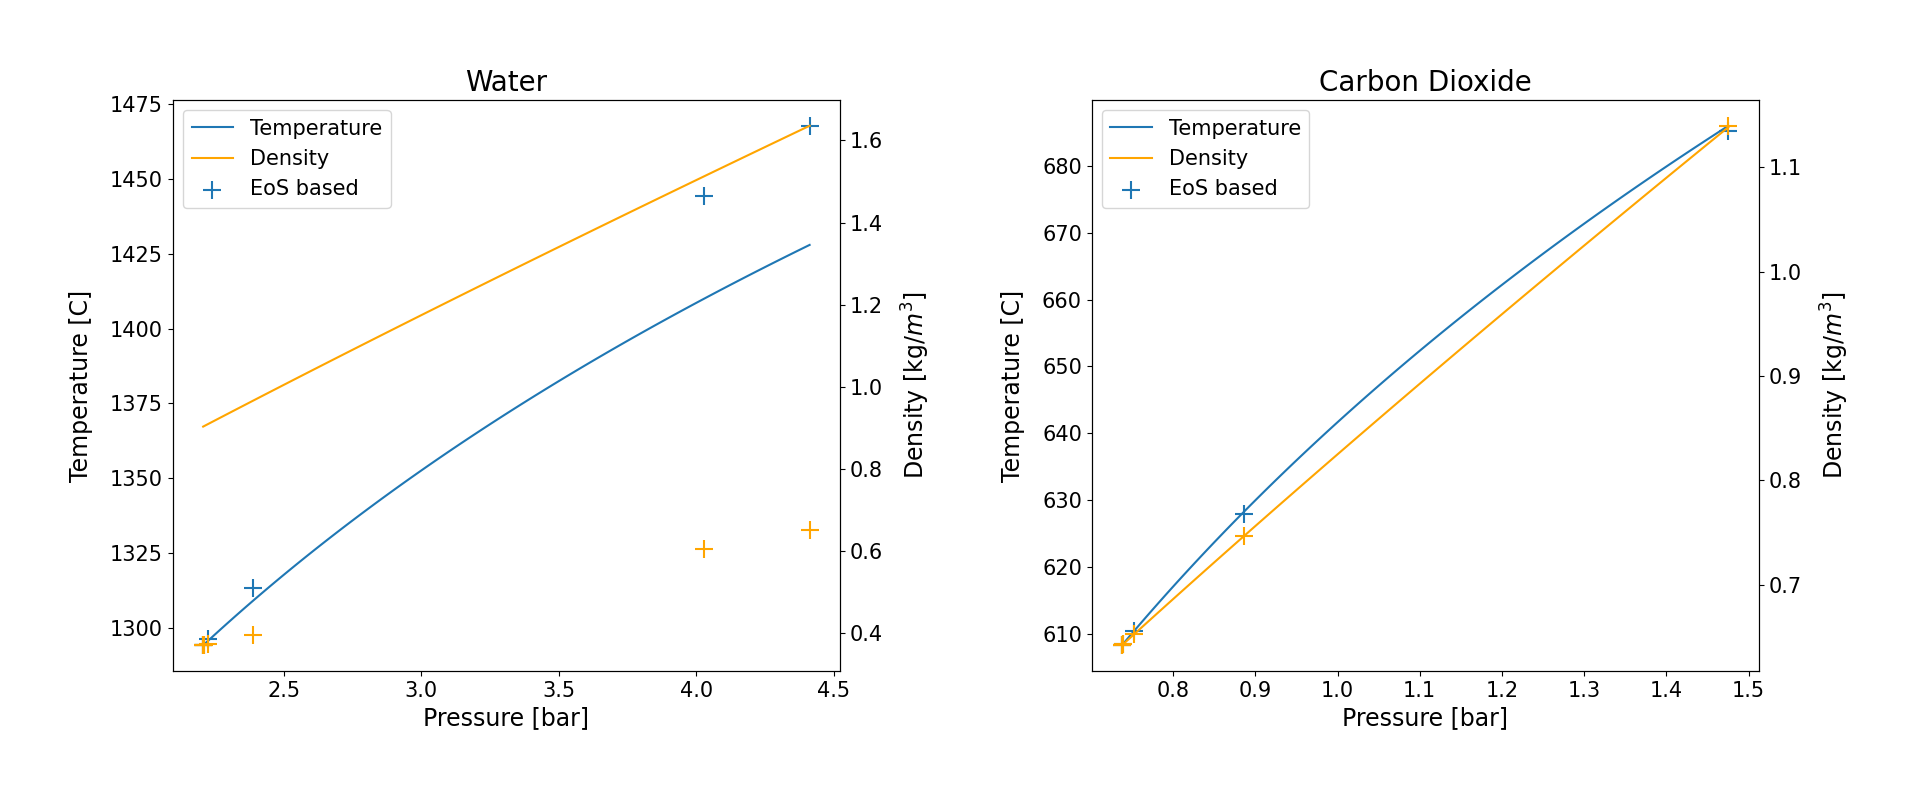
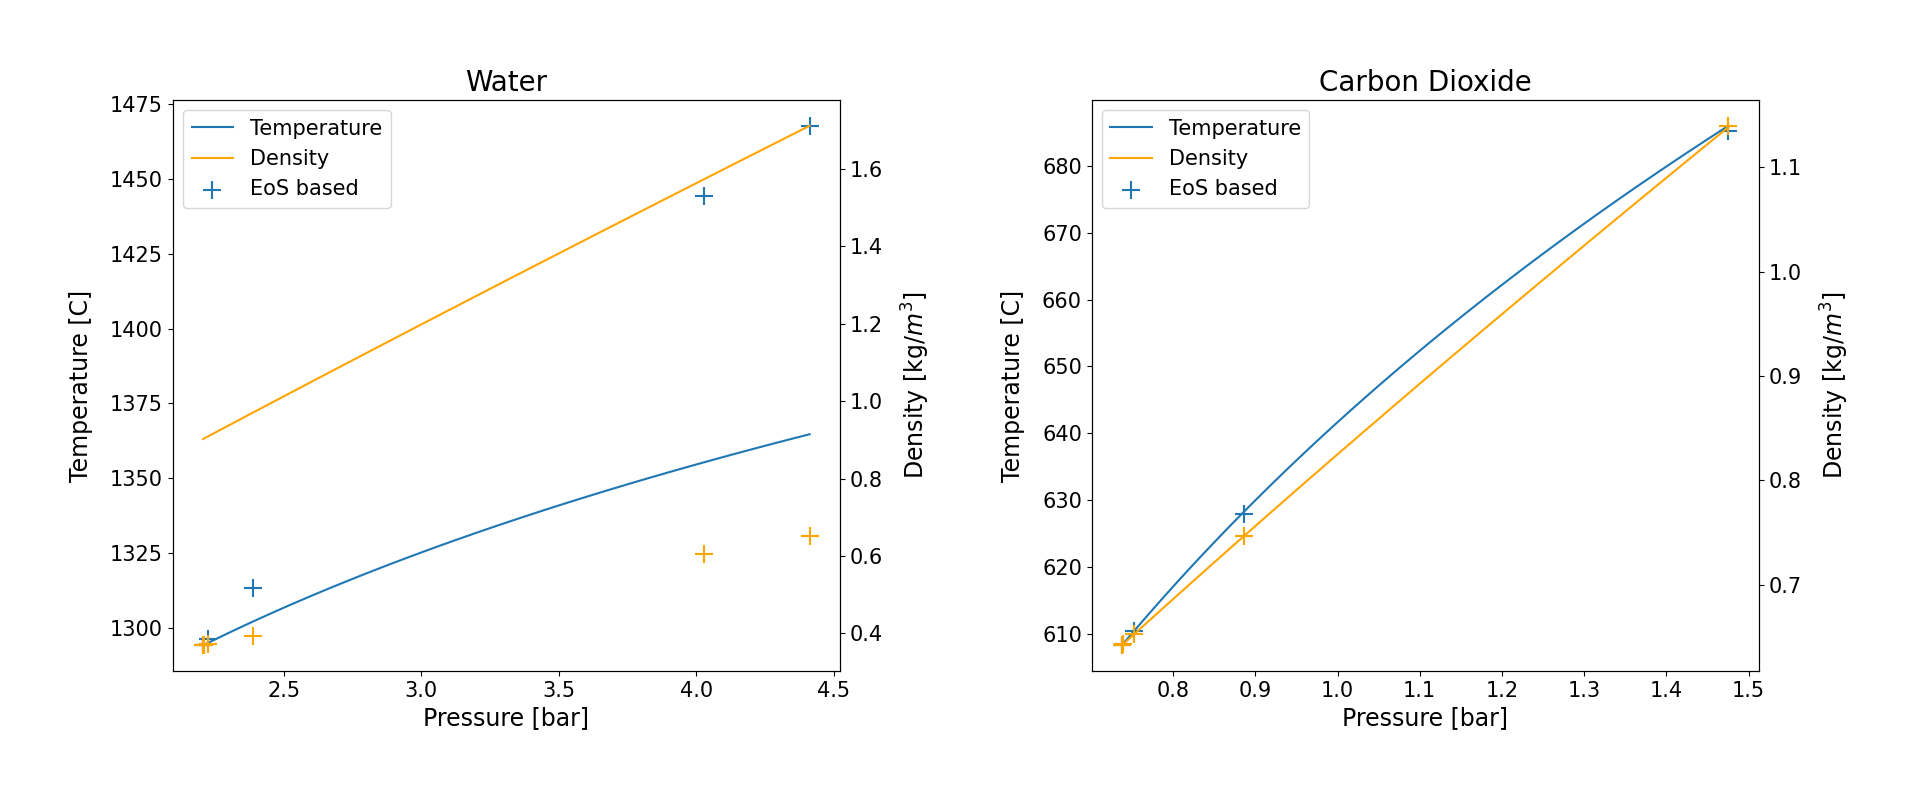
Integration Problem Solved

diff --git a/calculation/1 - EOS analysis/15 - evaluate_r_dag.py b/calculation/1 - EOS analysis/15 - evaluate_r_dag.py
@@ -49,10 +49,10 @@ else:
 
     ]
 
-eos_classes = [VdWEOS]  # [VdWEOS, RKEOS, SRKEOS, PREOS]
-eos_names = ["PR eos"]  # ["VdW eos", "RK eos", "SRK eos", "PR eos"]
-eos_colors = ["tab:green"]  # ["tab:blue", "tab:orange", "tab:green", "tab:gray"]
-alphas = [1]    # [0.35, 0.5, 1, 1]
+eos_classes = [RKEOS, SRKEOS, PREOS]
+eos_names = ["RK eos", "SRK eos", "PR eos"]
+eos_colors = ["tab:orange", "tab:green", "tab:gray"]
+alphas = [0.35, 1, 1]
 
 
 # %%-------------------------------------   CALCULATIONS                        -------------------------------------> #
@@ -107,9 +107,7 @@ for fluid in fluids:
             dpdv = - rho_res ** 2 * dpdrho
             gamma = tp.get_variable("gamma")
 
-            # rp_res = (- t_curr * (dpdt ** 2) / dpdv) / tp.get_variable("cp")
-            # rp_res = (tp.get_variable("cp") - tp.get_variable("cv")) / tp.get_variable("cp")
-            rp_res = -dpdv
+            rp_res = (- t_curr * (dpdt ** 2) / dpdv) / tp.get_variable("cp")
 
             if rho_res < 0:
 
@@ -121,27 +119,25 @@ for fluid in fluids:
             for curr_fluid in eos_fluids:
 
                 curr_state = curr_fluid.get_state(p=p_curr, t=t_curr)
-                # res_rels[j + 1, i] = curr_state.r / curr_state.cp
-                res_rels[j + 1, i] = -curr_state.dpdv
+                res_rels[j + 1, i] = curr_state.r / tp.get_variable("cp")
                 j += 1
 
             pbar.update(1)
 
         style = next(styles)
 
-        label_curr = "$t_{{rel}}$ = {}[-]".format(t_mod)
+        lines = list()
         for j in range(len(eos_fluids)):
 
             lines.append(axs[0][k].plot(
 
                 p_rels, res_rels[1 + j, :],
                 linestyle=style, color=eos_colors[j],
-                label=label_curr, alpha=alphas[j]
+                label=eos_names[j], alpha=alphas[j]
 
             )[0])
 
-        # lines.append(axs[0][k].plot(p_rels, res_rels[0, :], label=label_curr, linestyle=style, color="black")[0])
-        axs[0][k].plot(p_rels, res_rels[0, :], label=label_curr, linestyle=style, color="black")
+        lines.append(axs[0][k].plot(p_rels, res_rels[0, :], label="REFPROP", linestyle=style, color="black")[0])
 
     labs = [l.get_label() for l in lines]
 
@@ -153,8 +149,8 @@ for fluid in fluids:
         axs[j][k].legend(lines, labs)
         axs[j][k].set_ylabel(y_labels[j])
         axs[j][k].set_xlabel("$p_{rel}$ [-]")
-        # axs[j][k].set_ylim((0, 1))
-        axs[j][k].set_yscale("log")
+        axs[j][k].set_ylim((0, 1))
+        # axs[j][k].set_yscale("log")
         axs[j][k].grid(visible=True, which="major")
         axs[j][k].grid(visible=True, which="minor", linewidth=0.75, alpha=0.25)
 

diff --git a/calculation/1 - EOS analysis/10 - EoS Comparison - Other.py b/calculation/1 - EOS analysis/10 - EoS Comparison - Other.py
@@ -18,7 +18,7 @@ fluids = ["Water", "Carbon Dioxide", "Methane"]
 m_mols = [0.01801528, 0.04401, 0.01604]
 acntrs = [0.344, 0.239, 0.011]
 cps = [1864.84159, 845.846, 2230.12]
-eos_class = RKEOS
+eos_class = PREOS
 
 
 # %%-------------------------------------   CALCULATIONS                        -------------------------------------> #
